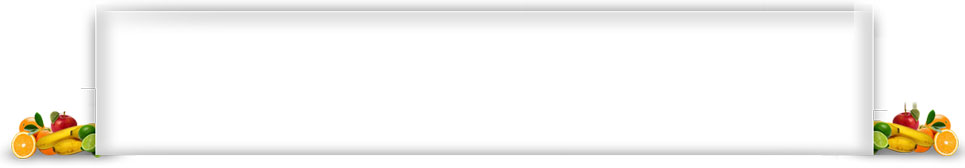
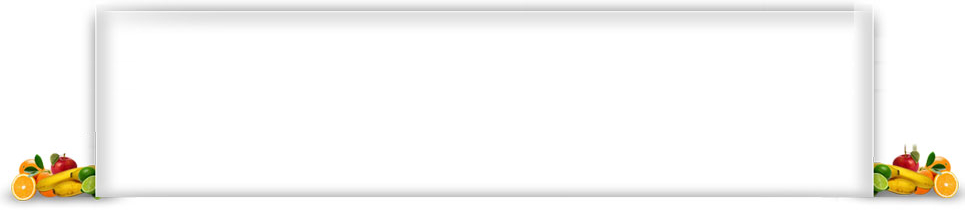
Adding fapern to sponsors

Changed region(s): [[0.0, 0.5952, 0.9948, 0.9821], [0.1244, 0.0298, 0.8705, 0.0893]]

diff --git a/css/style.css b/css/style.css
@@ -63,7 +63,7 @@ p { font-size: 14px; margin-bottom: 20px; }
 #content h2.parceiros { font-size: 30px; margin-bottom: 20px;  }
 #content #agencia { text-align: center; }
 
-#footer { display: block; height: 170px; margin-top: 61px; background: url(../images/bg/bg-footer0.jpg) no-repeat; }
+#footer { display: block; height: 218px; margin-top: 61px; background: url(../images/bg/bg-footer0.jpg) no-repeat; }
 
 #sponsor { margin-top: 35px; text-align: center; }
 #sponsor h6 { font-size: 10px; font-weight: normal; margin-bottom: 5px;  }
